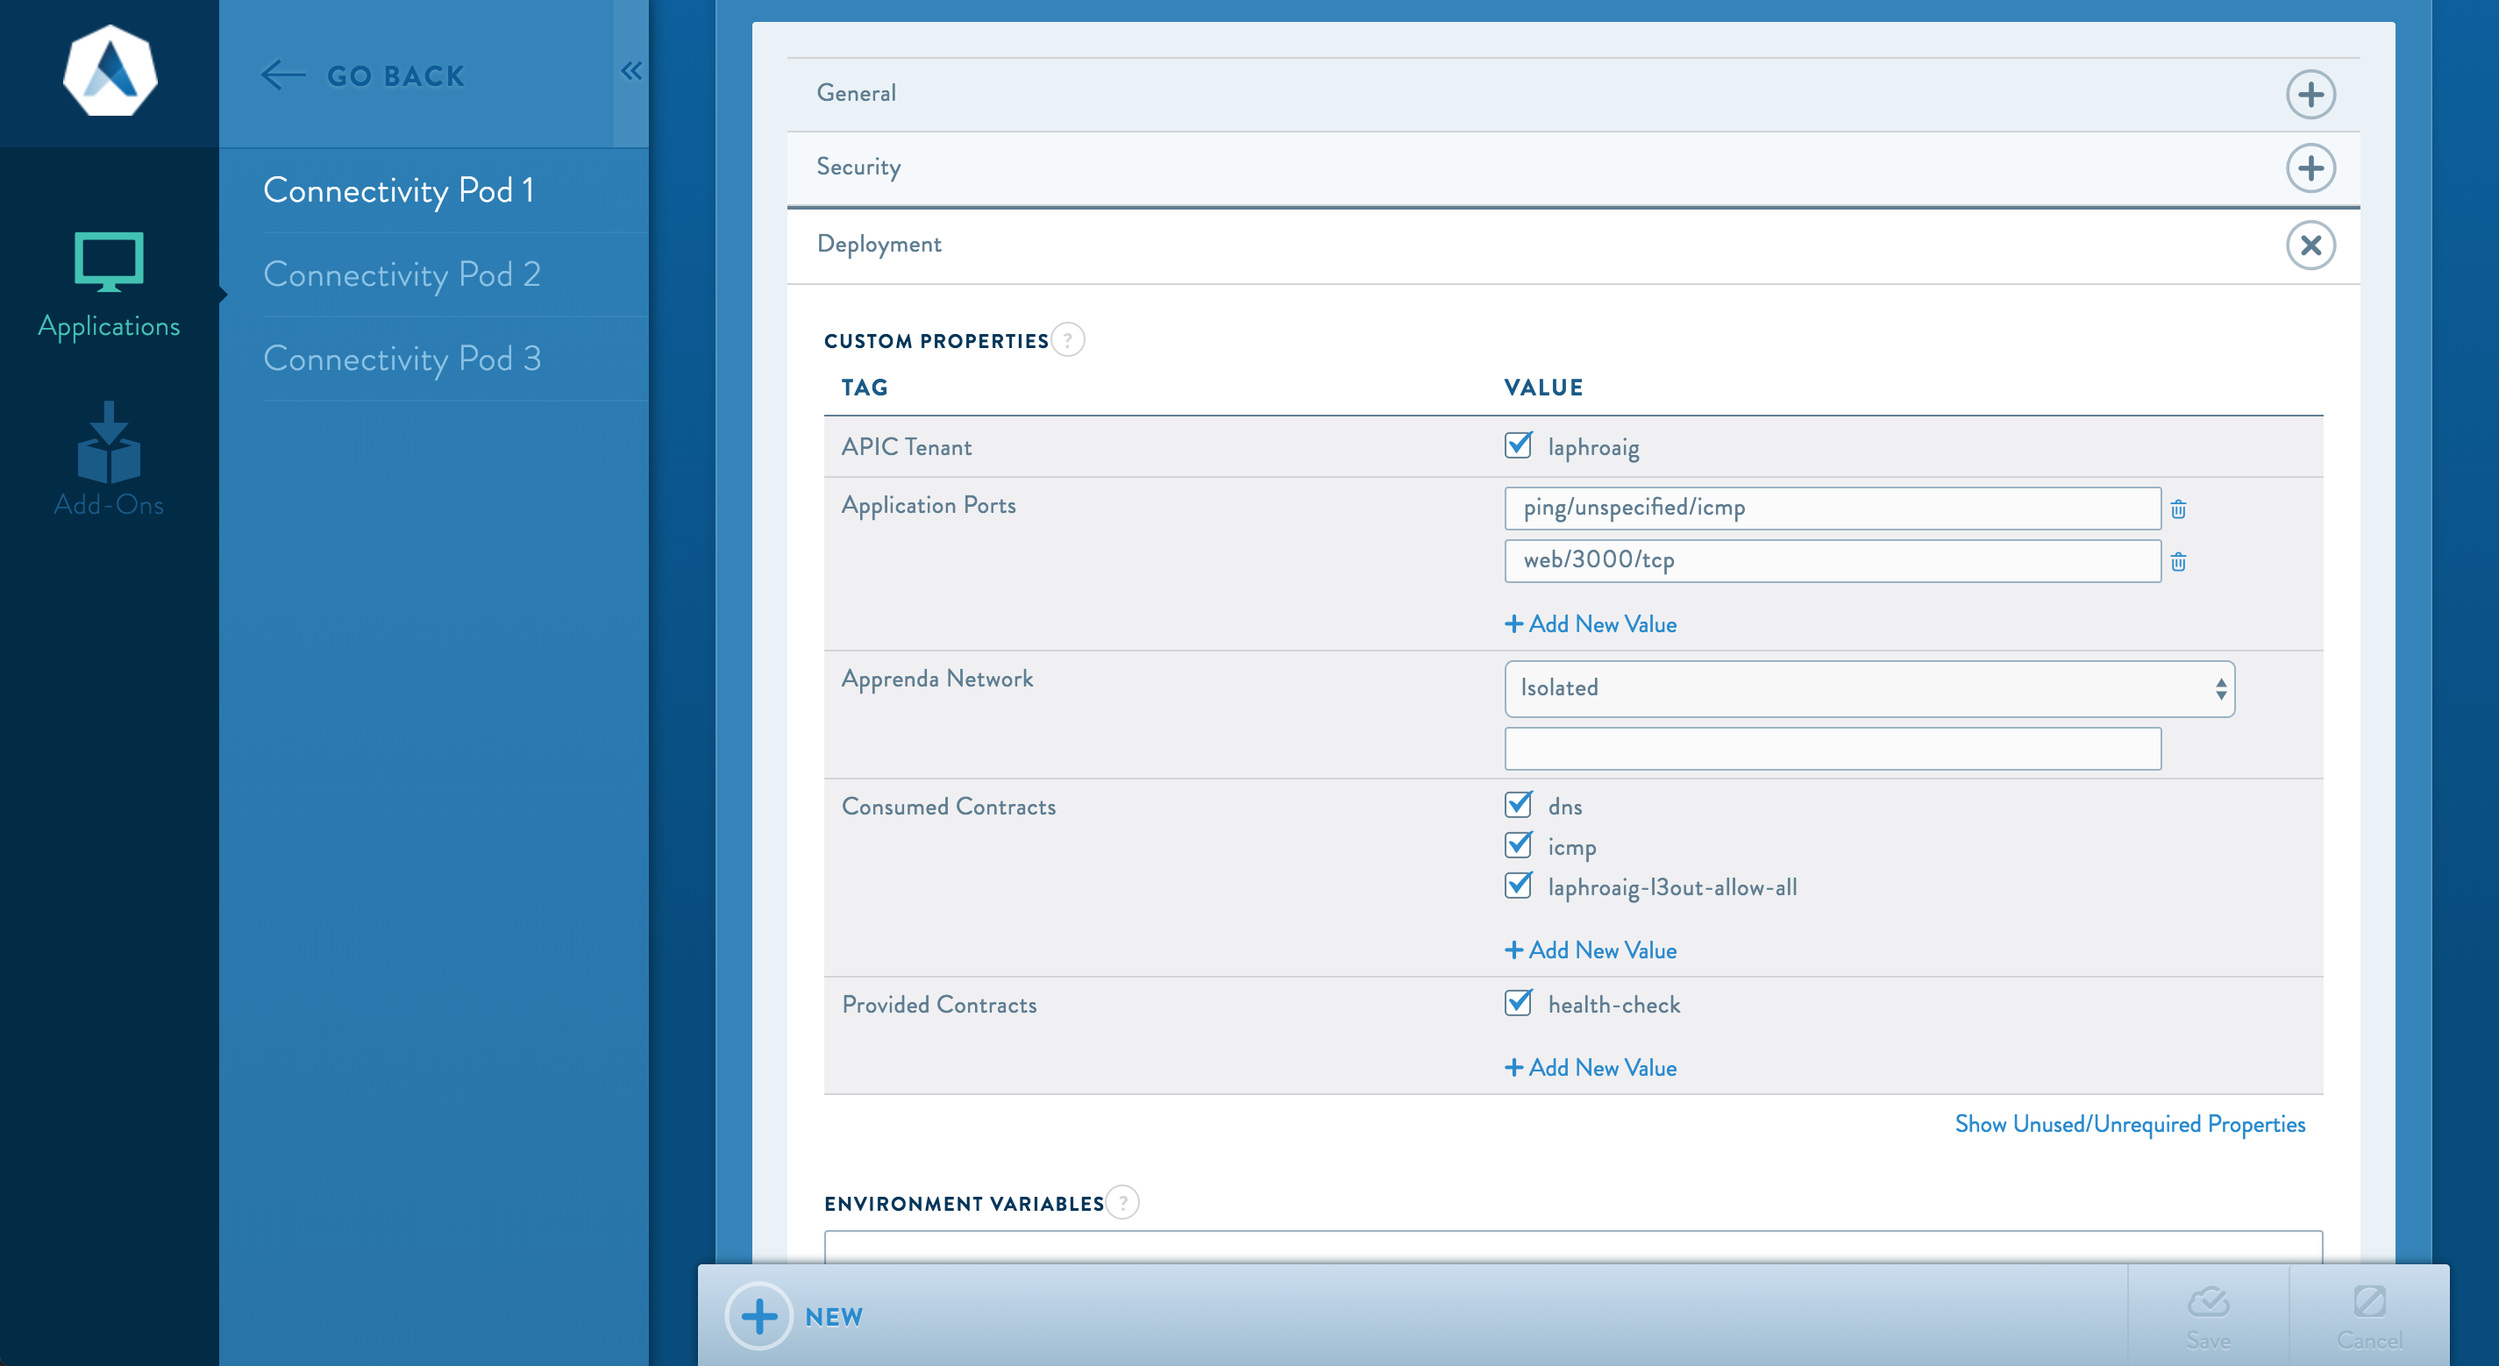
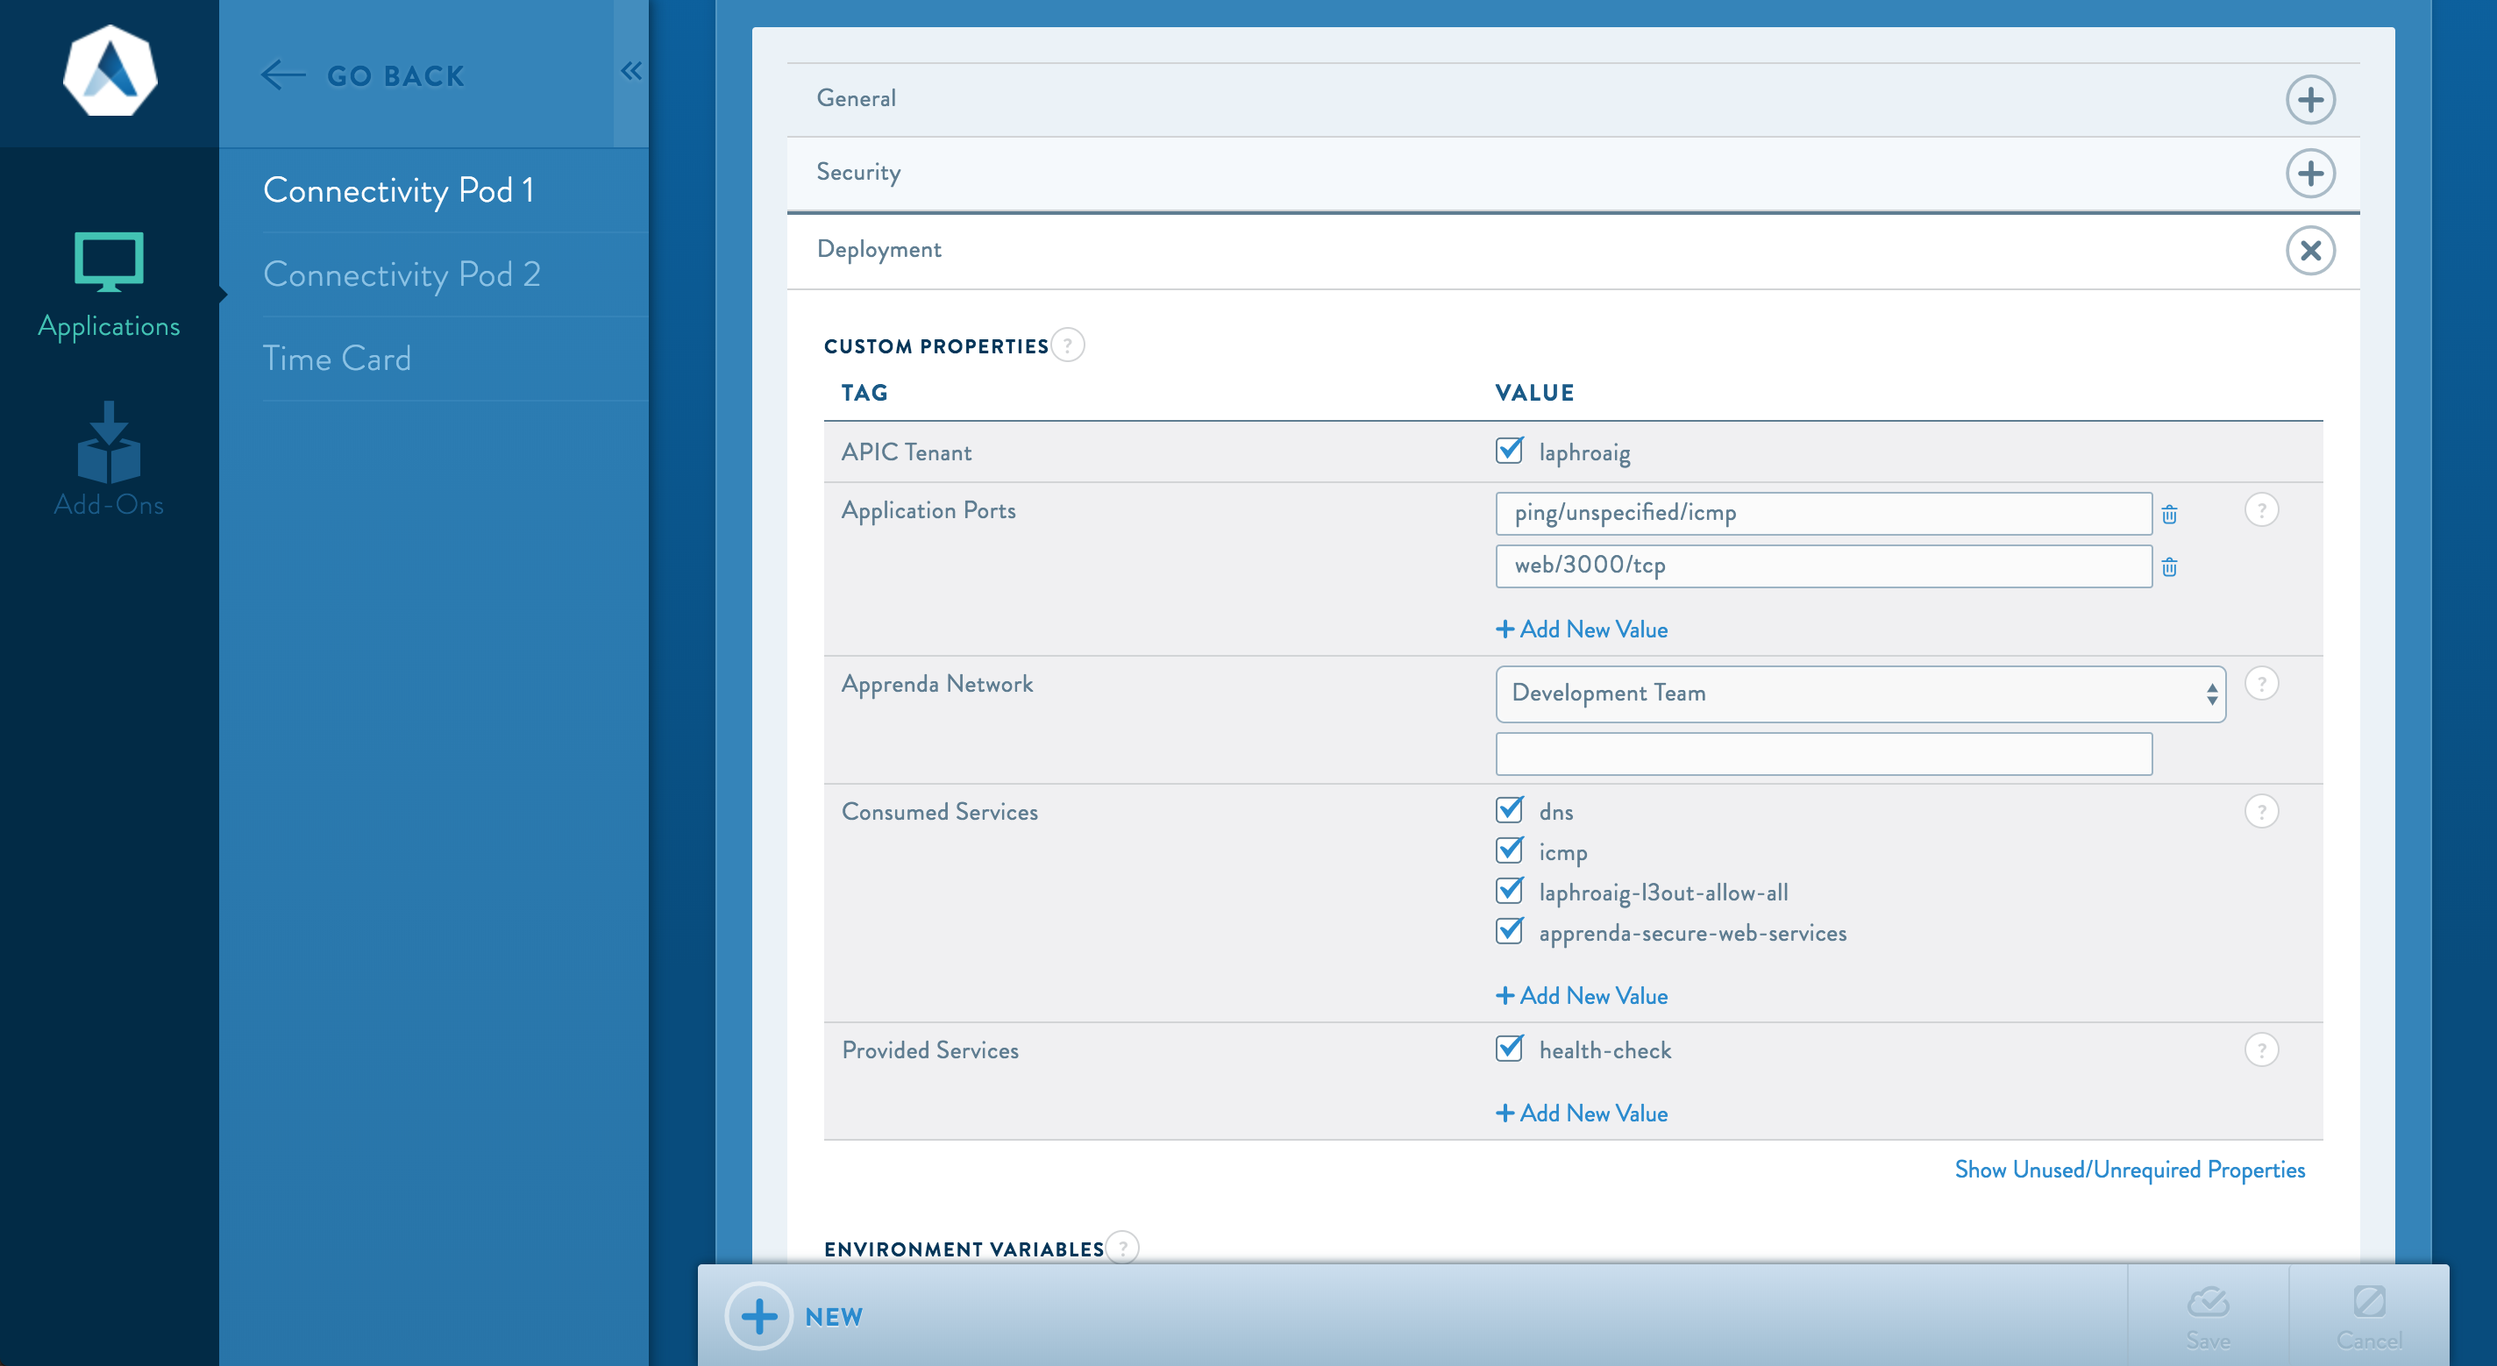
Updated README

diff --git a/README.md b/README.md
@@ -1,69 +1,107 @@
 # ACI Networking Integration
 ![Automatic ACI Configuration](/images/automatic-aci-configuration.png)
 
-This integration uses ACI to provide automatic application-level network isolation for Kubernetes workloads deployed with Apprenda.
+This integration uses ACI to provide automatic application-level network isolation for Kubernetes workloads deployed by Apprenda. Details of the installation process can be found in [**Cisco's CNI documentation**](https://www.cisco.com/c/en/us/td/docs/switches/datacenter/aci/apic/sw/kb/b_Kubernetes_Integration_with_ACI.html).
 
 ### Supported Software Versions
 |Software|Min Version|Max Version|
 |-|-|-|
-|Apprenda|7.0|8.0|
+|Apprenda|8.0|8.0|
 |Kubernetes|1.6.0|1.6.12|
 |ACC|1.6.0|1.6.0|
-|ACI|3.0|3.0|
+|ACI|3.0(1j)|3.0(2h)|
+|CentOS|7|7|
 
 ## Prerequisites
-* A functional Apprenda instance running on ESXi hosts
-* An ACI environment configured for use with the ESXi hosts
-* The ability to access the developer portal from all Windows nodes
+* An Apprenda instance networked to EPG(s) in ACI
+* A contract residing in the common tenant for communication with the Apprenda instance
+* A L3 out configured in ACI
+* A dedicated AD account for the integration
+* A unassigned NIC cabled to leaf(s) on the ACI fabric on each ESXi Kubernetes node host
+* An AEP configured in ACI for the ports cabled to the ESXi hosts
 
-### Kubernetes Installation with the ACI CNI
-*We'll be using the [Kismatic Enterprise Toolkit (KET)](https://github.com/apprenda/kismatic) for installing Kubernetes*
-1. Follow steps provided in the [guide](https://github.com/apprenda/kismatic/blob/master/docs/install.md) in order to generate your kismatic-cluster.yaml
-2. To specify a custom CNI provider for KET, modify your kismatic-cluster.yaml and change the provider to "custom" as shown below:
-      ```
-      add_ons:
-        cni:
-          disable: false
-          provider: custom
-      ```
-3. Install Kubernetes using the following command:
-   ```
-   kismatic install apply
-   ```
-4. You must install the ACI CNI manually by following the installation steps [here](https://www.cisco.com/c/en/us/td/docs/switches/datacenter/aci/apic/sw/kb/b_Kubernetes_Integration_with_ACI.html)
+## ACI Configuration
+1. Use pip to install ```acc-provision``` on the master node:
+```
+pip install acc-provision==1.6.0
+```
+2. Generate the sample provisioning YAML:
+```
+acc-provision --sample > aci-containers-config.yaml
+```
+3. Edit the provisioning YAML for your environment
+    * The infrastructure VLAN ID must match that of your ACI environment
+4. Use ```acc-provision``` with the edited ```aci-containers-config.yaml``` to configure ACI:
+```
+acc-provision -c aci-containers-config.yaml -o aci-containers.yaml -a -u username -p password
+```
+5. Configure the ```kube-nodes``` and ```kube-system``` EPGs in the provisioned tenant to consume the Apprenda contract
 
-## Installation
-1. Create a domain account for the integration
-2. Run GenerateCertificate.ps1 to generate the credentials-encrypting certificate
-3. Copy APICProxy.pfx (created by step 2) and ProvisionNode.ps1 to each Windows node
-4. Run ProvisionNode.ps1 on each Windows node
-    * This will import the APICProxy certificate, grant the domain account read access to the private key, and grant "Log on as service" to the domain account
-5. Run CustomizeArchive.ps1 to embed the domain credentials in the archive
-6. Copy ApicProxy.zip, ApicProxy.Bootstrapper.zip, and ConfigureApprenda.ps1 to the LM
-7. Run ConfigureApprenda.ps1 on the LM (Apprenda SDK required)
-    * This will create and promote the APIC Proxy application, create all the necessary Custom Properties, and create the APIC Proxy Bootstrapper (it will also set credentials if specified)
+## vCenter Configuration
+1. Create a distributed switch configured for 1600 MTU and assign it to the prerequisite unused NIC(s)
+2. Create a distributed port group configured for VLAN trunking and enable forged transmits
+3. Create additional NIC(s) on all Kubernetes nodes configured for the distributed port group
+
+## Node Configuration
+*This process installs specific versions of Docker and Kubenetes. Any previous versions must be uninstalled before running ```config.sh```. These steps must be completed on all Kubernetes nodes.*
+1. Edit the provided ```config.sh``` with the details of the respective node
+2. Run the edited ```config.sh```
+3. Mark all management interfaces as not the default route
+    * The Kubernetes API VLAN interface should be the only interface **not** marked as not the default route
+4. Reboot the node
+
+
+## Kubernetes Installation
+*We'll be using kubeadm for installing Kubernetes. These steps take place on the master node unless specified otherwise.*
+1. Edit the provided ```config.yaml``` and ```basic_auth.csv``` for your environment
+    * ABAC must be specified as the authorization mode for the cluster to be usable by Apprenda
+2. Copy the provided ```abac_policy.json``` and the edited ```basic_auth.csv``` to ```/etc/kubernetes```
+3. Use ```kubeadm``` with the edited ```config.yaml``` to install Kubernetes:
+```
+kubeadm init --config config.yaml
+```
+4. Follow the instructions printed to the console by ```kubeadm init```
+    * Copy ```/etc/kubernetes/admin.conf``` to your home directory
+    * Set the ```KUBECONFIG``` environment variable
+    * Execute the ```kubeadm join``` command on each of the worker nodes
+5. Use ```kubectl``` to apply the CNI YAML generated by ```acc-provision```:
+```
+kubectl apply -f aci-containers.yaml
+```
+
+## Integration Installation
+*These steps take place on the LM node unless specified otherwise. These steps require the Apprenda SDK on the LM node.*
+1. Run ```GenerateCertificate.ps1``` to generate the credentials-encrypting certificate
+2. Copy the certificate created by step 2 and ```ProvisionNode.ps1``` to each Windows app and web node
+3. Run ```ProvisionNode.ps1``` on each Windows app and web node
+    * Pass the prerequisite AD account credentials to the script
+    * This will import the certificate, grant the AD account read access to the private key, and grant "Log on as service" to the AD account
+4. Run ```CustomizeArchive.ps1``` to embed the AD account credentials in the archive
+6. Run ```ConfigureApprenda.ps1```
+    * Pass the optional credentials to the script to save them in the database
+    * Pass the optional consumed or provided services to add them as options to the respective custom property
+    * This will create and promote the APIC Proxy application, create all the necessary custom properties, and create the APIC Proxy bootstrapper
     
 ## Verification
-1. Verifiy that credentials are set by launching the APIC Proxy UI
-2. Create a new application using the provided connectivity-pod.yaml
-3. Add "ping/unspecified/icmp" and "web/3000/tcp" to the "Application Ports" component custom property
-4. Set the "Apprenda Network" component custom property to "Development Team"
-5. Promote the application to sandbox
-    * Use APIC to verify that an ANP, EPG, contract, and filter were created
-    * Verify that the Connectivity Pod web UI can be accessed by launching the application from the developer portal
-    * Use the Connectivity Pod web UI to verify connectivity with external resources
-6. Demote the application
-    * Use APIC to verify that the ANP, EPG, contract, and filter were removed
+1. Launch the APIC Proxy UI and verify that credentials are configured for APIC and Kubernetes
+2. Review the log (/log) and verify that the service is watching for changes to replica sets
+3. Create a new application using the provided ```connectivity-pod.yaml```
+4. Promote the application to sandbox
+5. Use APIC to verify that an ANP, EPG, contract, and filter were created
+6. Verify that the Connectivity Pod web UI can be accessed by launching the application from the developer portal
+7. Use the Connectivity Pod web UI to verify connectivity with external resources
+8. Demote the application
+9. Use APIC to verify that the ANP, EPG, contract, and filter were removed
 
 ## Usage
 ![Component Custom Properties](/images/component-custom-properties.png)
 
-The integration provides the following kubernetes-specific component custom properties to developers. These custom properties direct automatic ACI configuration on application promotion. ACI objects created by the integration will automatically be removed on application demotion or deletion. An application must be promoted for any changes to the custom properties to take effect.
-1. **APIC Tenant** - Used for specifying the tenant to configure in APIC. This must coincide with the cluster that your application will be deployed to.
-2. **Application Ports** - Used for specifying the set of ports and protocols over which your application will accept traffic. Each entry must be supplied in the format: name/port/protocol ([a-z0-9-]+/1-65535|unspecified/tcp|udp|icmp|unspecified). "unspecified" may be used as a wildcard for the port and/or protocol. The port must be set to "unspecified" for ICMP or "unspecified" protocols.
-3. **Apprenda Network** - Used for specifying the group of applications that will be allowed access to your application. Selecting "None" will result in the application being added to the "kube-default" EPG.
-4. **Consumed Contracts** - Used for specifying existing contracts (services) that your application should consume. You may specify any contract residing in the specified APIC tenant or in the common tenant.
-5. **Provided Contracts** - Used for specifying existing contracts (services) that your application should provide. You may specify any contract residing in the specified APIC tenant or in the common tenant.
+The integration provides the following kubernetes-specific component custom properties to developers. These custom properties direct automatic ACI configuration on application promotion. ACI objects created by the integration will automatically be removed on application demotion or deletion. An application must be patched or promoted for any changes to the custom properties to take effect.
+1. **APIC Tenant** - Used for specifying the tenant to configure in APIC. This must coincide with the cluster that the developer's application will be deployed to.
+2. **Application Ports** - Used for specifying the set of ports and protocols over which the developer's application will accept traffic. Each entry must be supplied in the format: name/port/protocol ([a-z0-9-]+/1-65535|unspecified/tcp|udp|icmp|unspecified). "unspecified" may be used as a wildcard for the port and/or protocol. The port must be set to "unspecified" when the protocol is ICMP or unspecified.
+3. **Apprenda Network** - Used for specifying the group of applications that will be allowed access to the developer's application. Selecting "Common" will result in the application being added to the "kube-default" EPG.
+4. **Consumed Services** - Used for specifying services external to the specified Apprenda Network that the developer's application requires access to. These options must correspond to contracts residing in the specified APIC tenant or in the common tenant.
+5. **Provided Contracts** - Used for specifying services external to the specified Apprenda Network that the developer's application provides. These options must correspond to contracts residing in the specified APIC tenant or in the common tenant.
 
 ## Troubleshooting
 The log can be accessed by launching the application and navigating to /log.
@@ -72,9 +110,15 @@ The log can be accessed by launching the application and navigating to /log.
 * Failure to promote
   1. Check that all Windows nodes can access the developer portal
   2. Check that correct service URLs and credentials are configured
-  3. Check that all Windows nodes have the APICProxy certificate installed under LocalMachine/Personal/Certificates and that the domain account has been granted read access to the private key
+  3. Check that all Windows nodes have the APICProxy certificate installed under LocalMachine/Personal/Certificates and that the AD account has been granted read access to the private key
   4. Check that the ACI CNI has been correctly configured for the ACI environment
 * Failure to remove ACI resources on demote
   1. Check that the workload had been removed from Kubernetes
-  2. Check that all Windows nodes have the APICProxy certificate installed under LocalMachine/Personal/Certificates and that the domain account has been granted read access to the private key
-  3. Check that the domain account has been granted "Log on as service" in Local Group Policy on all Windows nodes
+  2. Check that all Windows nodes have the APICProxy certificate installed under LocalMachine/Personal/Certificates and that the AD account has been granted read access to the private key
+  3. Check that the AD account has been granted "Log on as service" in Local Group Policy on all Windows nodes
+
+## Known Issues
+* [APPRENDA-24382](https://apprenda.atlassian.net/browse/APPRENDA-24382): During Apprenda installation, host entries for the default cloud are added the hosts file on all Windows nodes. These entries must be removed for the integration to connect to the developer portal.
+* [APPRENDA-25141](https://apprenda.atlassian.net/browse/APPRENDA-25141): The first consumed or provided service cannot be toggled in the developer portal UI.
+* [APPRENDA-25147](https://apprenda.atlassian.net/browse/APPRENDA-25147): Editing a custom property with multiple default values untags all but one of the values as a default.
+* [AI-594](https://apprenda.atlassian.net/browse/AI-594): Stopped or failed promotions from sandbox to published may result in missing network configuration in ACI. Patching or promoting the application fixes the issue.
